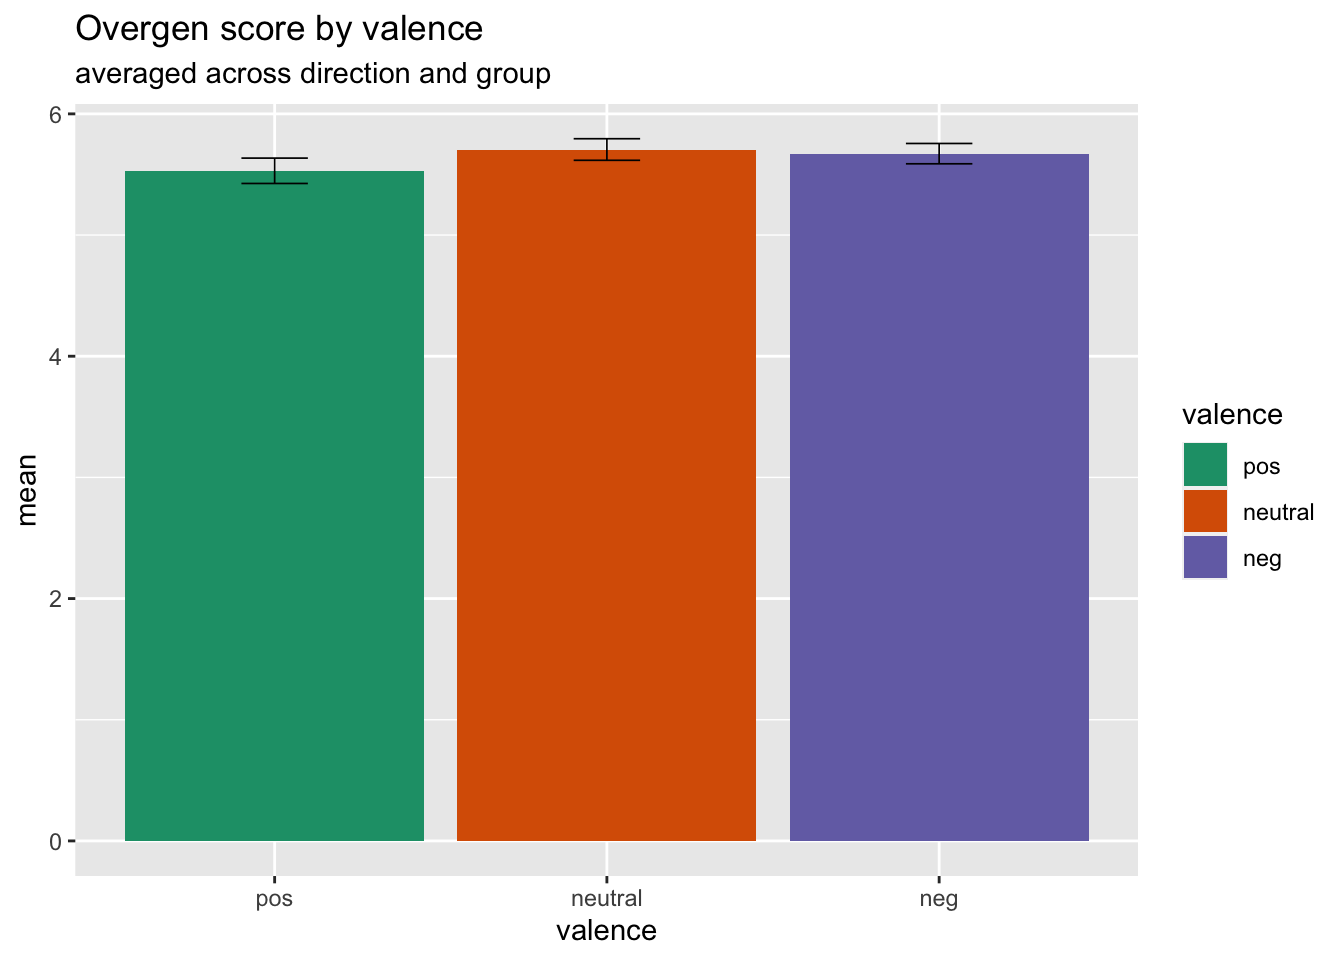
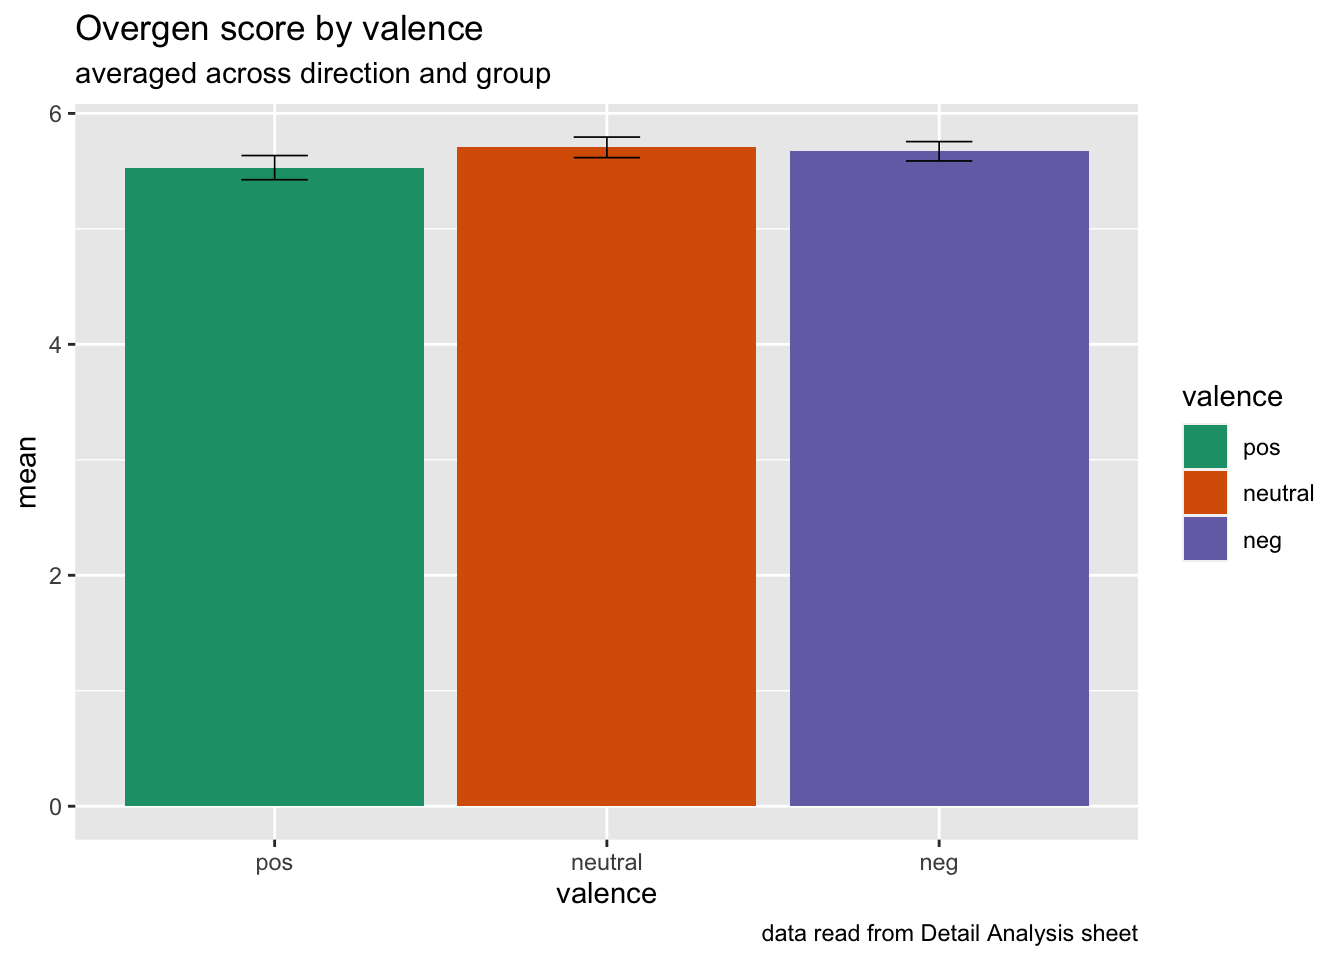
Build site.

diff --git a/docs/mtt_study3_plotting1.html b/docs/mtt_study3_plotting1.html
@@ -405,7 +405,7 @@ div.tocify {
 <div class="tab-content">
 <div id="summary" class="tab-pane fade in active">
 <p>
-<strong>Last updated:</strong> 2020-09-08
+<strong>Last updated:</strong> 2020-09-09
 </p>
 <p>
 <strong>Checks:</strong> <span class="glyphicon glyphicon-ok text-success" aria-hidden="true"></span> 7 <span class="glyphicon glyphicon-exclamation-sign text-danger" aria-hidden="true"></span> 0
@@ -496,16 +496,16 @@ This reproducible <a href="http://rmarkdown.rstudio.com">R Markdown</a> analysis
 <div class="panel panel-default">
 <div class="panel-heading">
 <p class="panel-title">
-<a data-toggle="collapse" data-parent="#workflowr-checks" href="#strongRepositoryversionstrongahrefhttpsgithubcomjenrichmondKelvinSarahJennyJesstreeb4910d2484967769de5dbf13b297e734f8857156targetblankb4910d2a"> <span class="glyphicon glyphicon-ok text-success" aria-hidden="true"></span> <strong>Repository version:</strong> <a href="https://github.com/jenrichmond/KelvinSarahJennyJess/tree/b4910d2484967769de5dbf13b297e734f8857156" target="_blank">b4910d2</a> </a>
+<a data-toggle="collapse" data-parent="#workflowr-checks" href="#strongRepositoryversionstrongahrefhttpsgithubcomjenrichmondKelvinSarahJennyJesstreed89ae6f194f539dbe1dc2d48e10ff56d467353c7targetblankd89ae6fa"> <span class="glyphicon glyphicon-ok text-success" aria-hidden="true"></span> <strong>Repository version:</strong> <a href="https://github.com/jenrichmond/KelvinSarahJennyJess/tree/d89ae6f194f539dbe1dc2d48e10ff56d467353c7" target="_blank">d89ae6f</a> </a>
 </p>
 </div>
[2 lines of base64/hex data omitted]
 <div class="panel-body">
 <p>
 Great! You are using Git for version control. Tracking code development and connecting the code version to the results is critical for reproducibility.
 </p>
 <p>
-The results in this page were generated with repository version <a href="https://github.com/jenrichmond/KelvinSarahJennyJess/tree/b4910d2484967769de5dbf13b297e734f8857156" target="_blank">b4910d2</a>. See the <em>Past versions</em> tab to see a history of the changes made to the R Markdown and HTML files.
+The results in this page were generated with repository version <a href="https://github.com/jenrichmond/KelvinSarahJennyJess/tree/d89ae6f194f539dbe1dc2d48e10ff56d467353c7" target="_blank">d89ae6f</a>. See the <em>Past versions</em> tab to see a history of the changes made to the R Markdown and HTML files.
 </p>
 <p>
 Note that you need to be careful to ensure that all relevant files for the analysis have been committed to Git prior to generating the results (you can use <code>wflow_publish</code> or <code>wflow_git_commit</code>). workflowr only checks the R Markdown file, but you know if there are other scripts or data files that it depends on. Below is the status of the Git repository when the results were generated:
@@ -518,9 +518,12 @@ Ignored files:
     Ignored:    OLDAnalysis/
     Ignored:    Prism & Graphs/
 
+Untracked files:
+    Untracked:  data/~$Study 3_MTT_Clinical Group_ Data (65 or under).xlsx
+
 Unstaged changes:
-    Modified:   analysis/index.Rmd
     Deleted:    analysis/mtt_study3_plotting.Rmd
+    Modified:   data/Study 3_MTT_Clinical Group_ Data (65 or under).xlsx
 
 </code></pre>
 <p>
@@ -559,6 +562,40 @@ Message
 </tr>
 </thead>
 <tbody>
+<tr>
+<td>
+Rmd
+</td>
+<td>
+<a href="https://github.com/jenrichmond/KelvinSarahJennyJess/blob/d89ae6f194f539dbe1dc2d48e10ff56d467353c7/analysis/mtt_study3_plotting1.Rmd" target="_blank">d89ae6f</a>
+</td>
+<td>
+Your Name
+</td>
+<td>
+2020-09-09
+</td>
+<td>
+working on overgen plot discrepancy
+</td>
+</tr>
+<tr>
+<td>
+html
+</td>
+<td>
+<a href="https://rawcdn.githack.com/jenrichmond/KelvinSarahJennyJess/4f73701809164b719f2a3b0a9a50f03bc04b007a/docs/mtt_study3_plotting1.html" target="_blank">4f73701</a>
+</td>
+<td>
+Your Name
+</td>
+<td>
+2020-09-08
+</td>
+<td>
+Build site.
+</td>
+</tr>
 <tr>
 <td>
 Rmd
@@ -623,7 +660,8 @@ overgenerality plots done
 library(janitor)
 library(ggeasy)
 library(here)
-library(ggbeeswarm)</code></pre>
+library(ggbeeswarm)
+library(patchwork)</code></pre>
 </div>
 <div id="read-data" class="section level1">
 <h1>read data</h1>
@@ -737,7 +775,7 @@ Your Name
 <h2>2. Main effect of valence</h2>
 <p>In the original plots, negative events had much lower scores, which probably was driving the main effect of valence.</p>
 <p>Need to work out why this effect is not replicated here…..</p>
-<pre class="r"><code>overgen %&gt;%
+<pre class="r"><code>valenceplot1 &lt;- overgen %&gt;%
   group_by(valence) %&gt;%
   summarise(mean = mean(dummy_total, na.rm = TRUE), 
             sd = sd(dummy_total, na.rm = TRUE), 
@@ -750,7 +788,9 @@ Your Name
                     width=.2,
                       position=position_dodge(.9)) +
   scale_fill_brewer(palette=&quot;Dark2&quot;) +
-  labs(title = &quot;Overgen score by valence&quot;, subtitle = &quot;averaged across direction and group&quot;)</code></pre>
+  labs(title = &quot;Overgen score by valence&quot;, subtitle = &quot;averaged across direction and group&quot;, caption = &quot;data read from Detail Analysis sheet&quot;)
+
+print(valenceplot1)</code></pre>
 <p><img src="figure/mtt_study3_plotting1.Rmd/overgenvalence-1.png" width="672" style="display: block; margin: auto;" /></p>
 <p>
 <button type="button" class="btn btn-default btn-xs btn-workflowr btn-workflowr-fig" data-toggle="collapse" data-target="#fig-overgenvalence-1">
@@ -996,6 +1036,84 @@ Your Name
 <li>need to check that I am using the same data that was in Sarah’s draft. The mean overgen scores for negative events are really different; effect of valence reported probably not there</li>
 <li>what to do about the distribution of overgen scores here. Not at all normally distributed, most participants have scores of 5 or 6. What analysis methods do other papers use? Are they dealing with a greater range of scores?</li>
 </ol>
+</div>
+</div>
+<div id="next-steps" class="section level1">
+<h1>Next steps</h1>
+<div id="working-out-data-difference" class="section level3">
+<h3>working out data difference</h3>
+<p>The above constructs dummy scores from the Detail_Analysis sheet in the excel file. In that same file, there is a sheet called Coding_Summary, that sums scores from the Detail Analysis sheet to produce dummary scores. Lets import that sheet directly and see if we can replicate the plot in the draft.</p>
+</div>
+<div id="read-coding-data" class="section level3">
+<h3>read coding data</h3>
+<pre class="r"><code>coding &lt;- readxl::read_excel(here(&quot;data&quot;, &quot;Study 3_MTT_Clinical Group_ Data (65 or under).xlsx&quot;), sheet = &quot;Coding_Summary_R&quot;) %&gt;%
+  clean_names() %&gt;%
+  select(1:9)</code></pre>
+<p>OK reassuring that we have 43 observations, which is the same as the original mtt dataframe that we read in the mtt_study3_cleaning.Rmd.</p>
+<p>So the dummy scores are in separate columns for each condition</p>
+<ul>
+<li>cat_past_neu</li>
+<li>cat_past_neg</li>
+<li>cat_past_pos</li>
+<li>cat_future_neu</li>
+<li>cat_future_neg</li>
+<li>cat_future_pos</li>
+</ul>
+<p>Need to make a column that has direction (past, future), one for valence (neu, neg, pos) and one for score</p>
+</div>
+<div id="rename-variables" class="section level3">
+<h3>rename variables</h3>
+<p>Need to rename these variables consistently to make pivot_longer work</p>
+<pre class="r"><code>coding &lt;- coding %&gt;%
+  rename(past_neutral = cat_past_neutral, past_negative = cat_past_neg, past_positive = cat_past_po, future_neutral = cat_fut_neu, future_negative = cat_fut_neg, future_positive = cat_fut_pos)</code></pre>
+</div>
+<div id="make-it-long" class="section level3">
+<h3>make it long</h3>
+<pre class="r"><code>coding_long &lt;- coding %&gt;%
+  pivot_longer(names_to = c(&quot;direction&quot;, &quot;valence&quot;), 
+               values_to = &quot;score&quot;, 
+               names_sep = &quot;_&quot;, 
+               past_neutral:future_positive)</code></pre>
+</div>
+<div id="make-df-just-complete" class="section level3">
+<h3>make df just complete</h3>
+<pre class="r"><code>coding_long_complete &lt;- coding_long %&gt;%
+  filter(identifier == &quot;Good&quot;)
+
+coding_long_complete$valence &lt;- fct_relevel(coding_long_complete$valence, c(&quot;positive&quot;, &quot;neutral&quot;, &quot;negative&quot;))</code></pre>
+<p>Good sign= the coding_long_complete df has 204 obs which is the same as the overgen df created above.</p>
+</div>
+<div id="lets-plot" class="section level3">
+<h3>Lets plot!</h3>
+<p>It was the main effect of valence plot that looked different.</p>
+<div id="valence-plot-take-2" class="section level4">
+<h4>valence plot take 2</h4>
+<pre class="r"><code>valenceplot2 &lt;- coding_long_complete %&gt;%
+  group_by(valence) %&gt;%
+  summarise(mean = mean(score, na.rm = TRUE), 
+            sd = sd(score, na.rm = TRUE), 
+            n = n(), 
+            stderr = sd/sqrt(n)) %&gt;%
+  ggplot(aes(x = valence, y = mean, fill = valence)) +
+  geom_col() +
+  geom_errorbar(aes(ymin=mean-stderr, ymax=mean+stderr),
+                  size=.3,    # Thinner lines
+                    width=.2,
+                      position=position_dodge(.9)) +
+  scale_fill_brewer(palette=&quot;Dark2&quot;) +
+  labs(title = &quot;Coding score by valence&quot;, subtitle = &quot;averaged across direction and group&quot;, caption = &quot;data read from Coding Summary sheet&quot;)</code></pre>
+<pre><code>`summarise()` ungrouping output (override with `.groups` argument)</code></pre>
+<pre class="r"><code>print(valenceplot2)</code></pre>
+<p><img src="figure/mtt_study3_plotting1.Rmd/unnamed-chunk-5-1.png" width="672" style="display: block; margin: auto;" /></p>
+<p>OK that looks quite different to the valence plot from above (but more similar to the plot in the manscript draft)…. what is going on?</p>
+<pre class="r"><code>valenceplot1 + valenceplot2</code></pre>
+<p><img src="figure/mtt_study3_plotting1.Rmd/unnamed-chunk-6-1.png" width="672" style="display: block; margin: auto;" /></p>
+</div>
+</div>
+</div>
+<div id="what-next" class="section level1">
+<h1>What next?</h1>
+<p>Both the overgen df (from the Detail Analysis sheet) and the coding_long_complete df (from the Coding Summary sheet) have 204 obs. Need to find a package that will compare two dataframes and tell me which values are different.</p>
 <br>
 <p>
 <button type="button" class="btn btn-default btn-workflowr btn-workflowr-sessioninfo" data-toggle="collapse" data-target="#workflowr-sessioninfo" style="display: block;">
@@ -1019,10 +1137,10 @@ attached base packages:
 [1] stats     graphics  grDevices utils     datasets  methods   base     
 
 other attached packages:
- [1] ggbeeswarm_0.6.0 here_0.1         ggeasy_0.1.2     janitor_1.2.0   
- [5] forcats_0.5.0    stringr_1.4.0    dplyr_1.0.1      purrr_0.3.3     
- [9] readr_1.3.1      tidyr_1.1.0      tibble_3.0.3     ggplot2_3.3.2   
-[13] tidyverse_1.3.0  workflowr_1.6.2 
+ [1] patchwork_1.0.0  ggbeeswarm_0.6.0 here_0.1         ggeasy_0.1.2    
+ [5] janitor_1.2.0    forcats_0.5.0    stringr_1.4.0    dplyr_1.0.1     
+ [9] purrr_0.3.3      readr_1.3.1      tidyr_1.1.0      tibble_3.0.3    
+[13] ggplot2_3.3.2    tidyverse_1.3.0  workflowr_1.6.2 
 
 loaded via a namespace (and not attached):
  [1] Rcpp_1.0.5             lubridate_1.7.4        assertthat_0.2.1      
@@ -1040,13 +1158,12 @@ loaded via a namespace (and not attached):
 [37] gtable_0.3.0           lifecycle_0.2.0        DBI_1.0.0             
 [40] git2r_0.27.1           magrittr_1.5           scales_1.1.1          
 [43] cli_2.0.2              stringi_1.4.6          farver_2.0.3          
-[46] fs_1.4.1               promises_1.1.1         xml2_1.3.2            
-[49] ellipsis_0.3.1         generics_0.0.2         vctrs_0.3.2           
-[52] RColorBrewer_1.1-2     tools_3.5.1            glue_1.4.1            
-[55] beeswarm_0.2.3         hms_0.5.3              yaml_2.2.1            
-[58] colorspace_1.4-1       rvest_0.3.6            knitr_1.23            
-[61] haven_2.3.1           </code></pre>
-</div>
+[46] fs_1.4.1               promises_1.1.1         snakecase_0.9.2       
+[49] xml2_1.3.2             ellipsis_0.3.1         generics_0.0.2        
+[52] vctrs_0.3.2            RColorBrewer_1.1-2     tools_3.5.1           
+[55] glue_1.4.1             beeswarm_0.2.3         hms_0.5.3             
+[58] yaml_2.2.1             colorspace_1.4-1       rvest_0.3.6           
+[61] knitr_1.23             haven_2.3.1           </code></pre>
 </div>
 </div>
 
